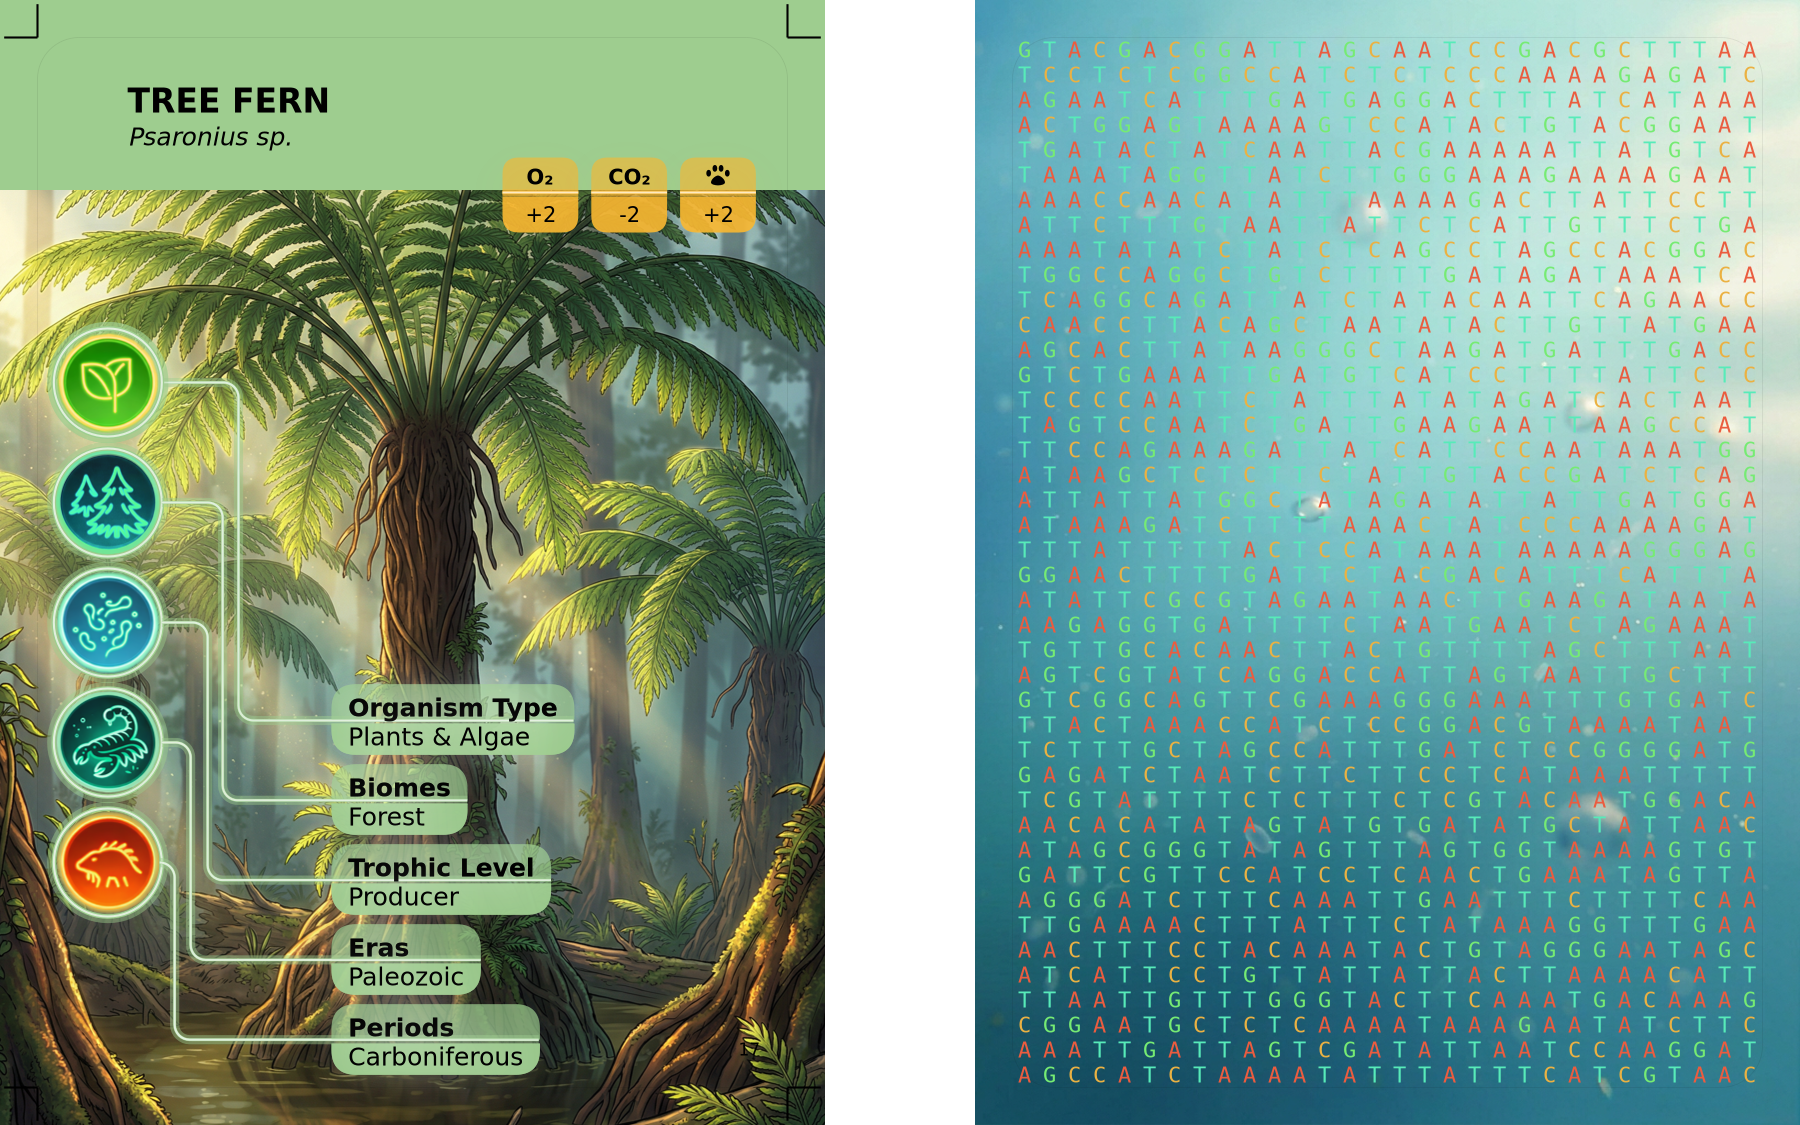
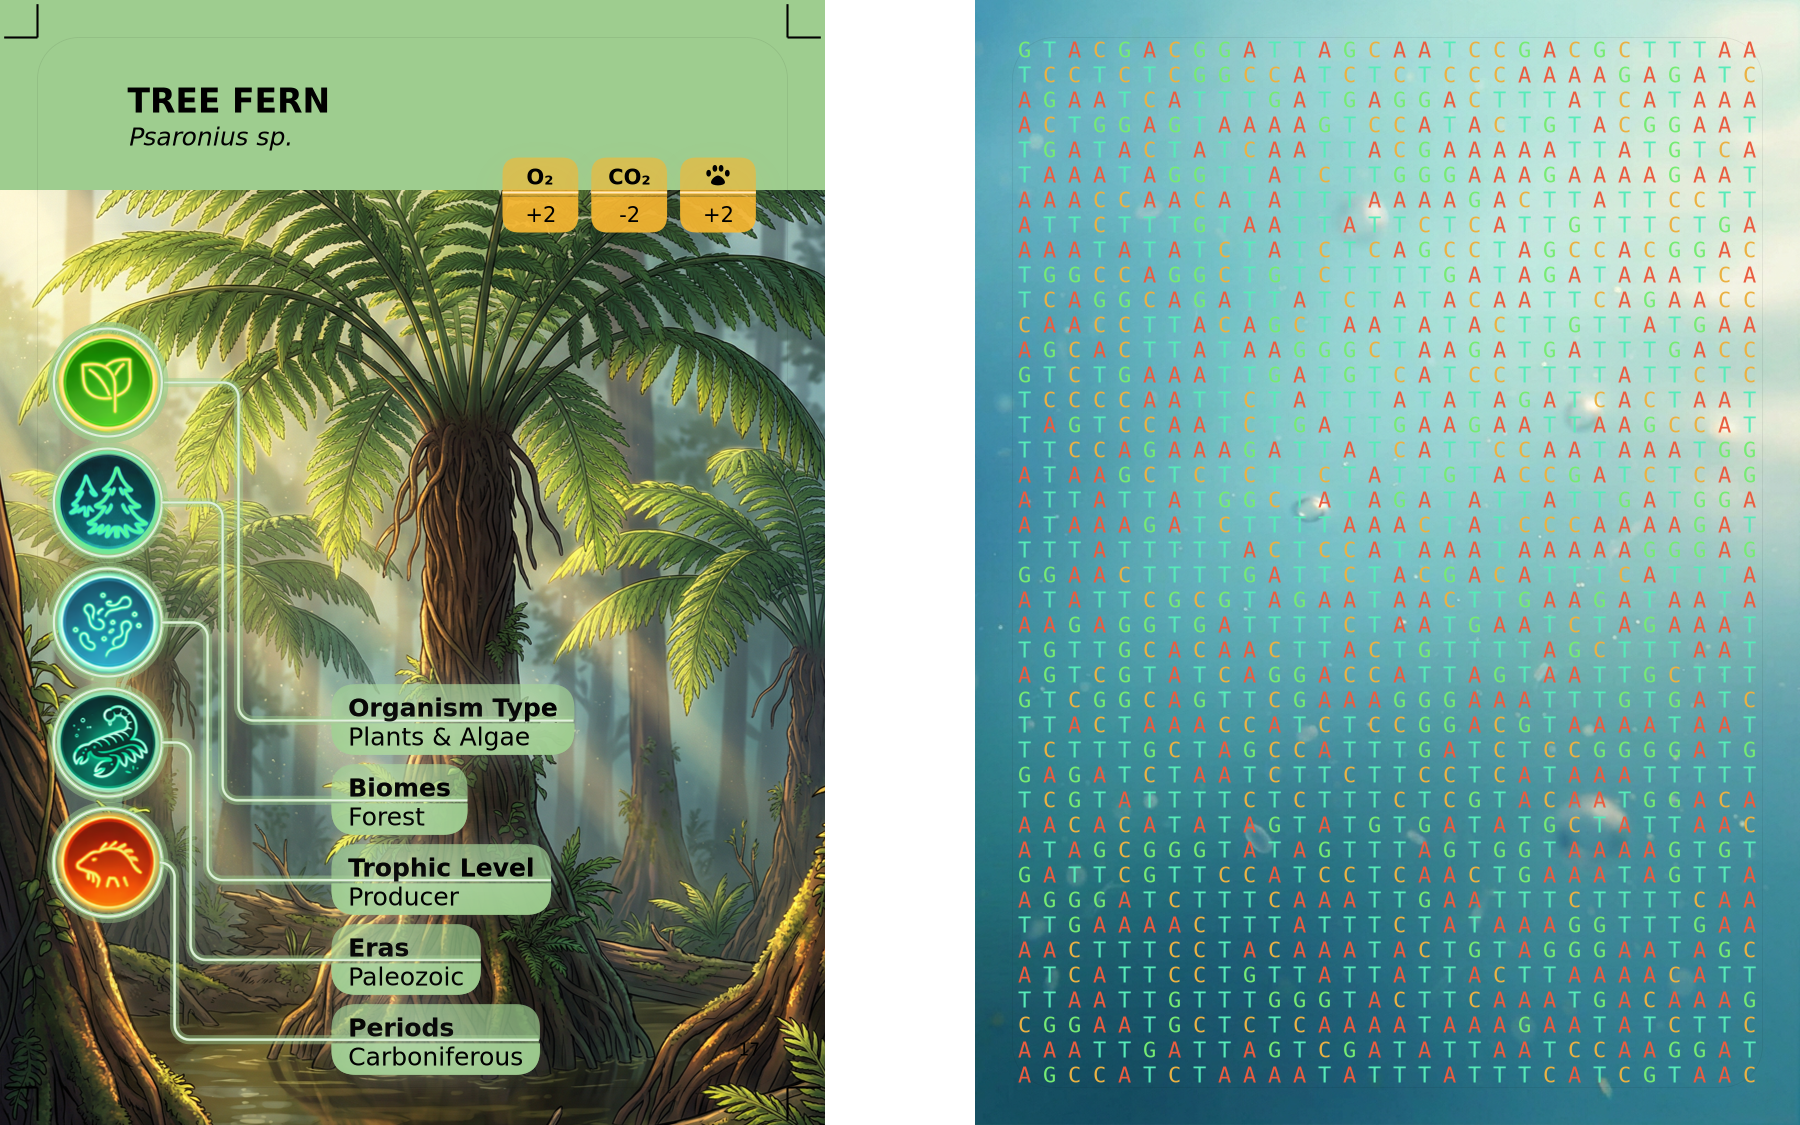
Update manifest with new checksum and generation date; add layout adjustments for Card 17

Changed region(s): [[0.0, 0.1556, 0.4667, 1.0]]

diff --git a/game/lib/cards/layout-png.js b/game/lib/cards/layout-png.js
@@ -63,6 +63,7 @@ async function drawCardPNG(ctx, xPt, yPt, card, scale, options = {}) {
   const isCard12 = card && card.card_label === 'Card 12';
   const isCard13 = card && card.card_label === 'Card 13';
   const isCard16 = card && card.card_label === 'Card 16';
+  const isCard17 = card && card.card_label === 'Card 17';
   const isCard21 = (card && card.card_label === 'Card 21') ||
     ((card && card.scientific_name || '').toLowerCase() === 'quercus robur');
   const isCard29 = card && card.card_label === 'Card 29';
@@ -185,6 +186,9 @@ async function drawCardPNG(ctx, xPt, yPt, card, scale, options = {}) {
     }
     if (isCard16) {
       mainPhotoY -= 40;
+    }
+    if (isCard17) {
+      mainPhotoX += 40;
     }
     if (isCard21) {
       mainPhotoX += 25;
